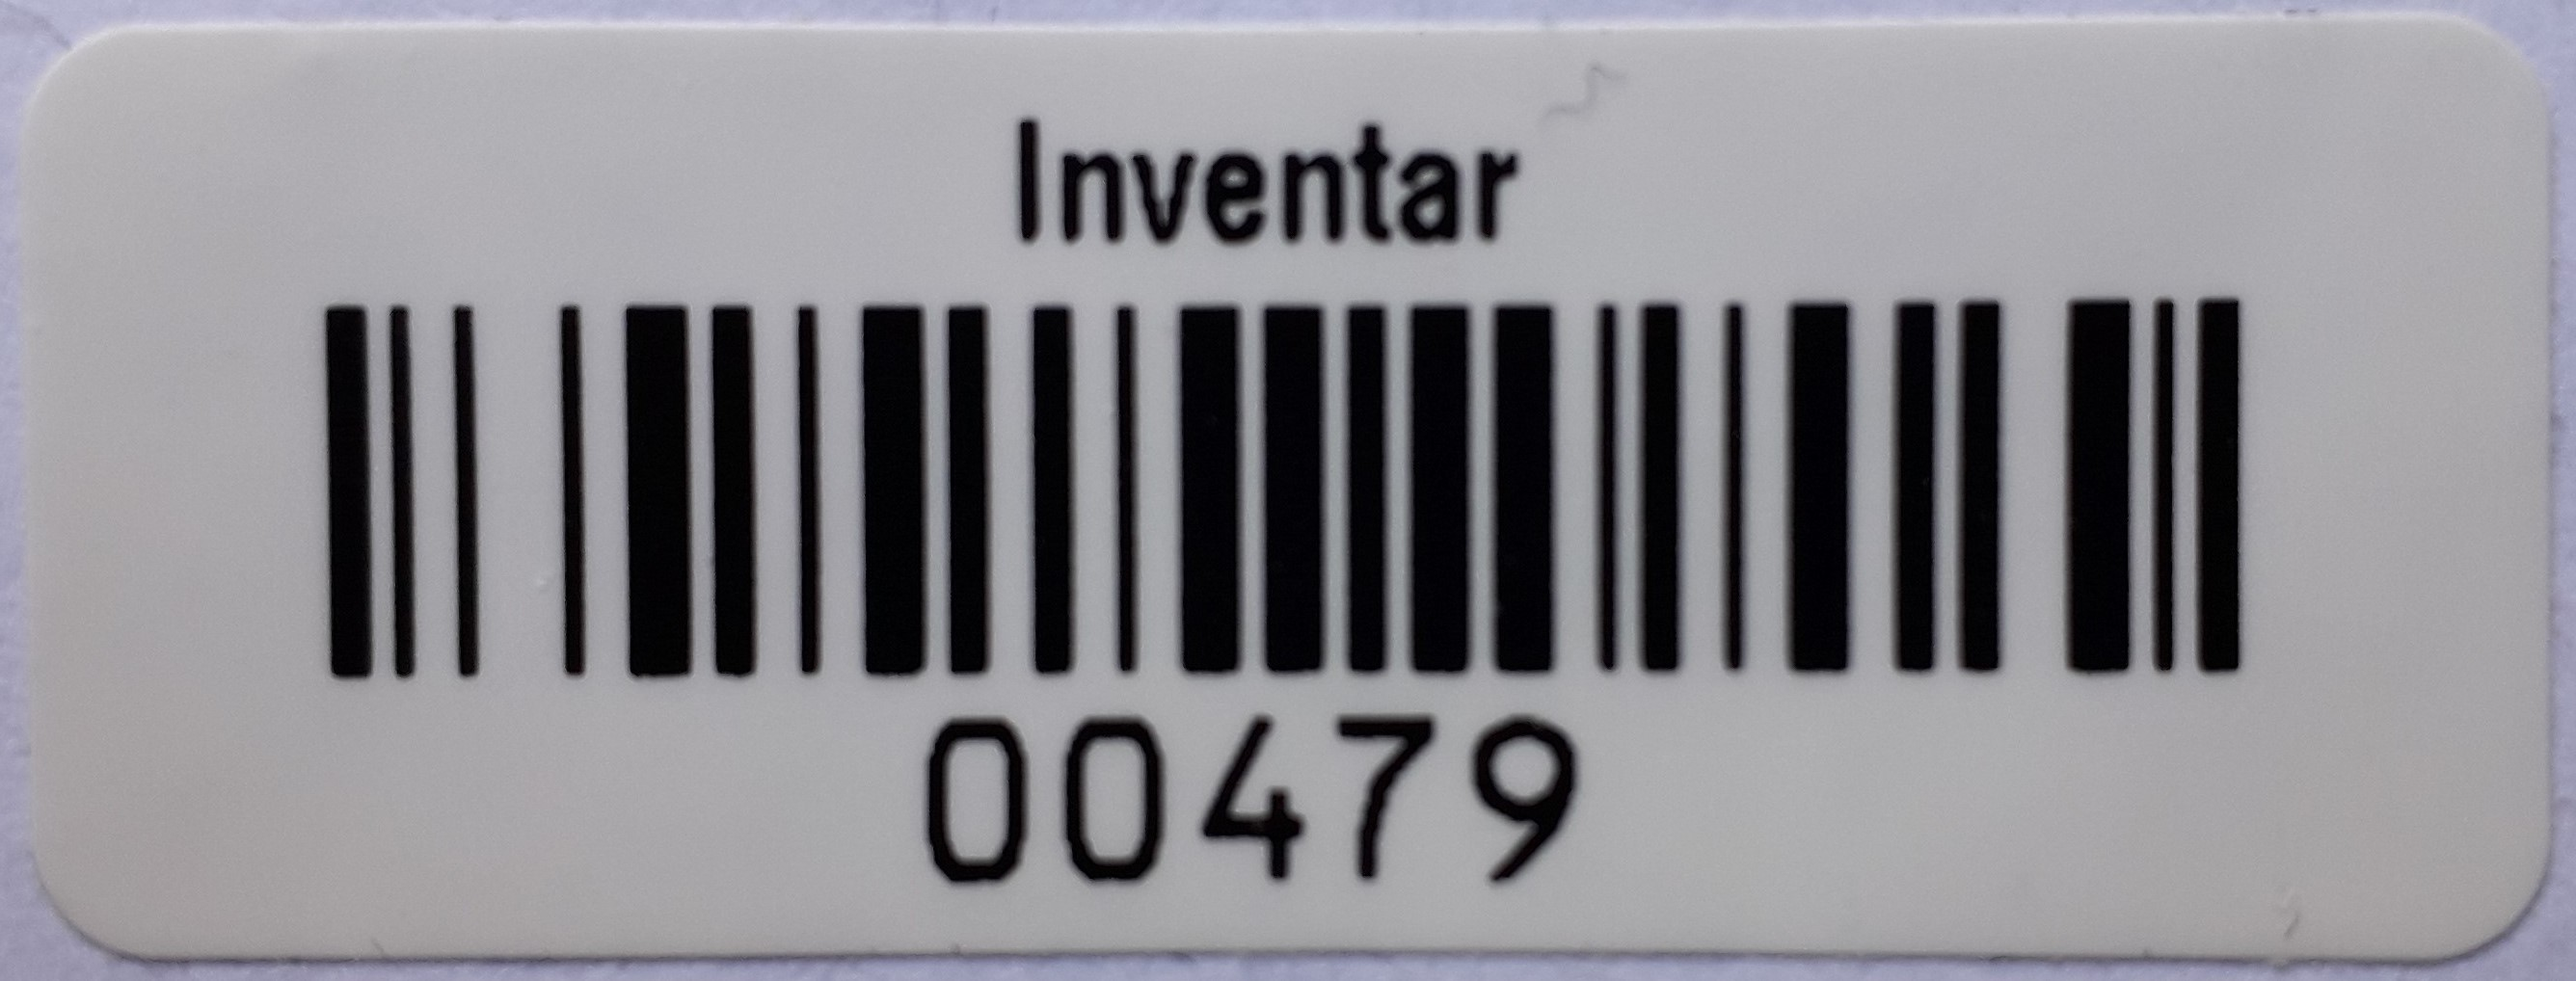
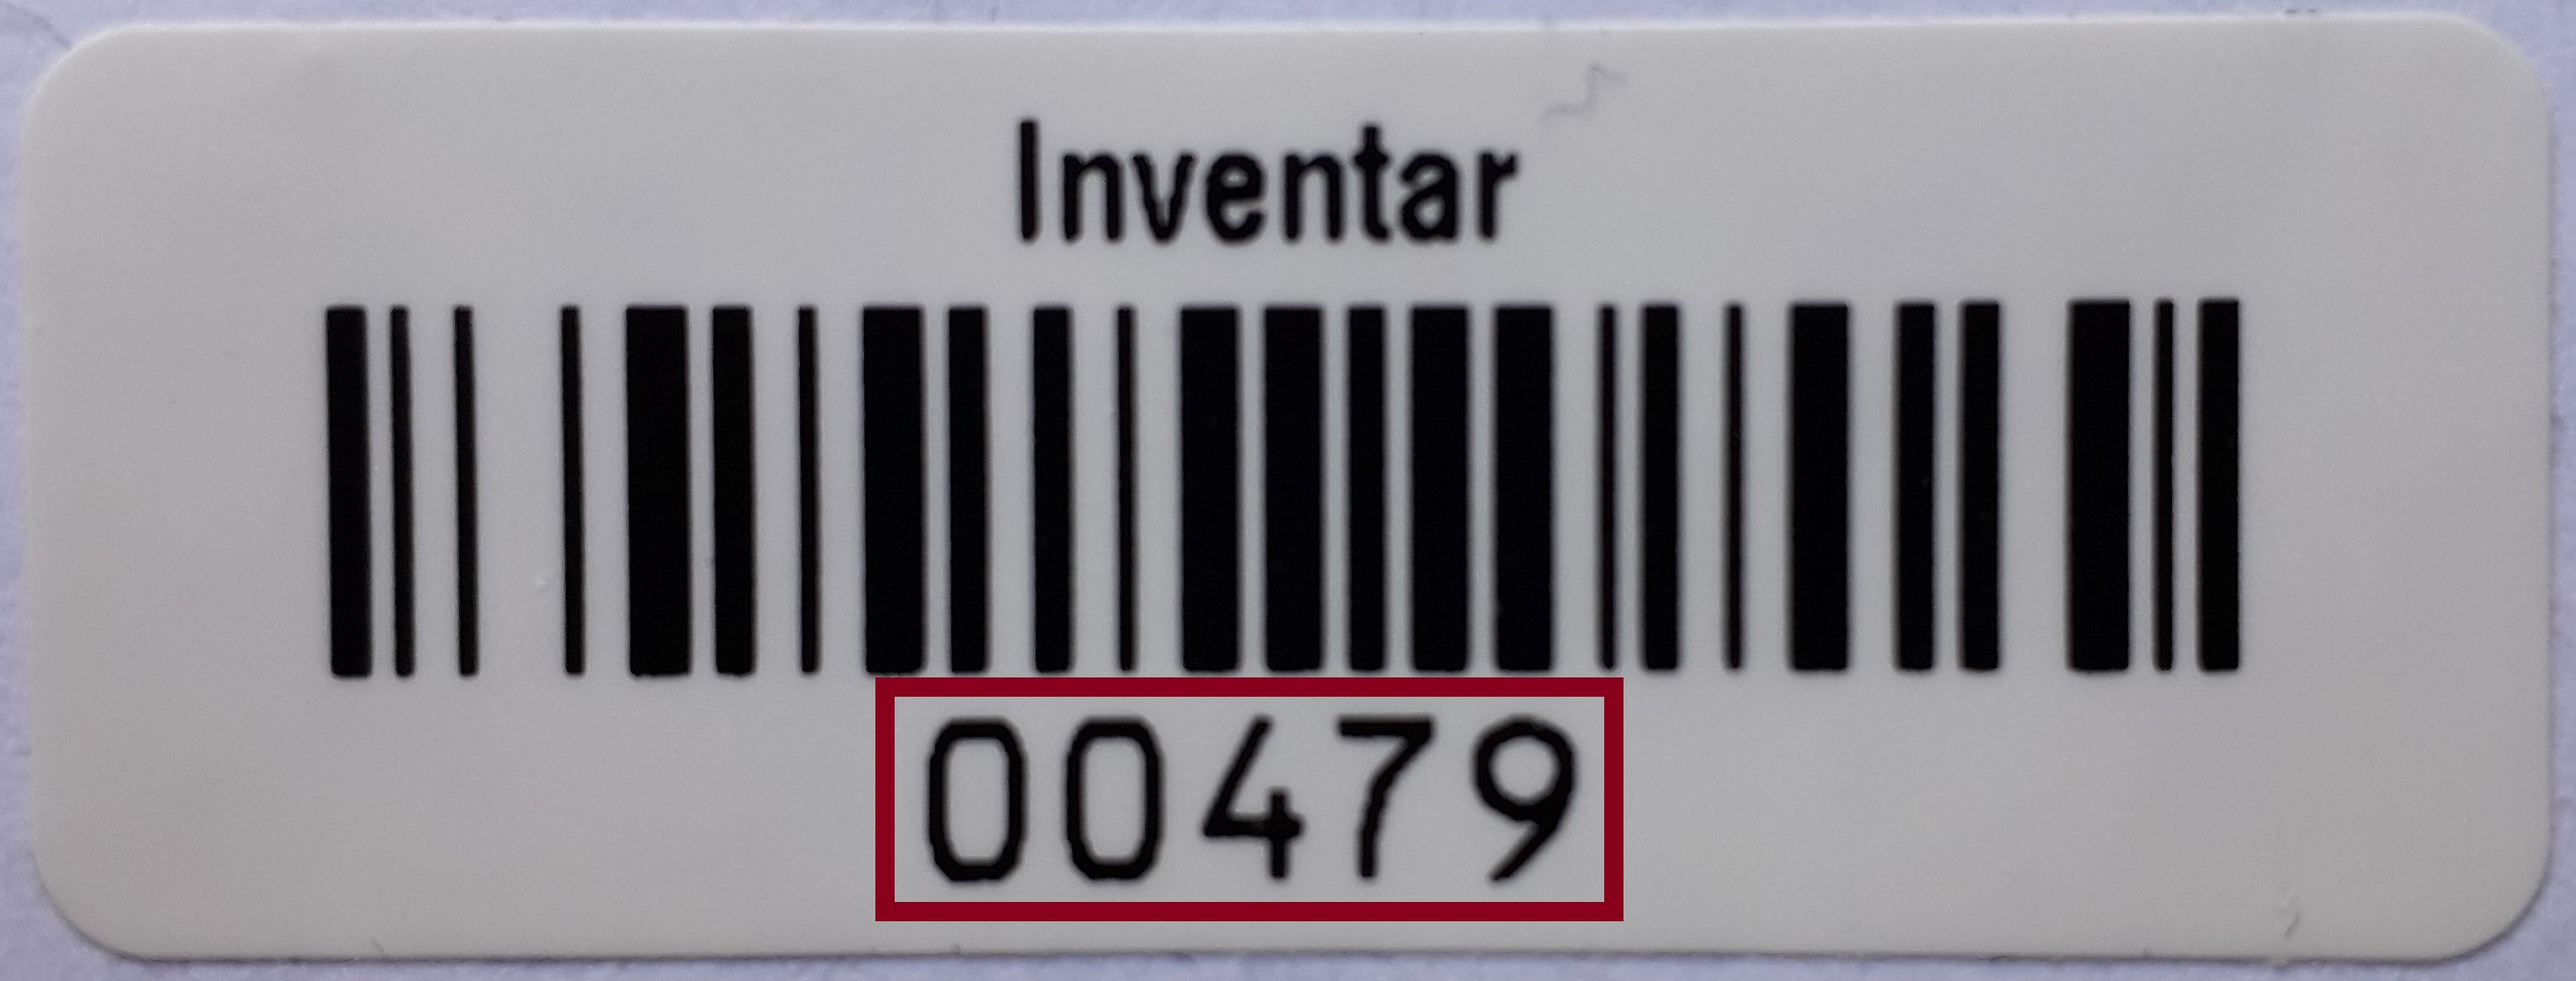
layout improvements

Changed region(s): [[0.3417, 0.6699, 0.6523, 0.944]]

diff --git a/lib/overviewScreen.dart b/lib/overviewScreen.dart
@@ -1,10 +1,11 @@
+import 'dart:convert';
 import 'package:flutter/material.dart';
+import 'package:teog_swift/previewDeviceInfo.dart';
 import 'package:teog_swift/deviceInfoScreen.dart';
 import 'package:teog_swift/main.dart';
 
 import 'networkFunctions.dart' as Comm;
 import 'preference_manager.dart' as Prefs;
-import 'hospitalDevice.dart';
 import 'doubleCardLayout.dart';
 
 class OverviewScreen extends StatelessWidget {
@@ -90,7 +91,7 @@ class _SearchFormState extends State<SearchForm> {
   @override
   Widget build(BuildContext context) {
     return Form(key: _formKey,
-      child: SizedBox(width: 250,
+      child: SizedBox(width: 300,
         child: Column(
         mainAxisSize: MainAxisSize.min,
         children: [
@@ -99,7 +100,8 @@ class _SearchFormState extends State<SearchForm> {
               .textTheme
               .headline5),
           SizedBox(height: 10),
-          Text("This is the easiest way. Please look for a barcode like this:"),
+          Text("This is the easiest way. Please look for a barcode like this and enter the marked number:"),
+          SizedBox(height: 5),
           Image(image: AssetImage('graphics/barcode.jpg')),
           TextFormField(
             controller: _deviceIDController,
@@ -142,7 +144,7 @@ class _FilterFormState extends State<FilterForm> {
 
   final _scrollController = ScrollController();
 
-  List<HospitalDevice> _filteredDevices = [];
+  List<PreviewDeviceInfo> _filteredDevices = [];
 
   String validateDeviceID(String value) {
     return null;//TODO:
@@ -181,7 +183,7 @@ class _FilterFormState extends State<FilterForm> {
   @override
   Widget build(BuildContext context) {
     return Form(key: _formKey,
-      child: SizedBox(width: 350,
+      child: SizedBox(width: 400,
         child: Column(
         mainAxisSize: MainAxisSize.min,
         children: [
@@ -228,11 +230,11 @@ class _FilterFormState extends State<FilterForm> {
                 itemCount: _filteredDevices.length,
                 itemBuilder: (BuildContext context, int index) {
                   return ListTile(
-                    leading: FlutterLogo(size: 56.0),
-                    title: Text(_filteredDevices[index].type),
-                    subtitle: Text(_filteredDevices[index].manufacturer + " " + _filteredDevices[index].model),
-                    trailing: Text(_filteredDevices[index].location),
-                    onTap: () => _openDeviceById(_filteredDevices[index].id)
+                    leading: Image.memory(base64Decode(_filteredDevices[index].imageData)),
+                    title: Text(_filteredDevices[index].device.type),
+                    subtitle: Text(_filteredDevices[index].device.manufacturer + " " + _filteredDevices[index].device.model),
+                    trailing: Text(_filteredDevices[index].device.location),
+                    onTap: () => _openDeviceById(_filteredDevices[index].device.id)
                   );
                 },
                 separatorBuilder: (BuildContext context, int index) => const Divider(),

diff --git a/lib/networkFunctions.dart b/lib/networkFunctions.dart
@@ -2,6 +2,7 @@ import 'dart:convert';
 
 import 'package:crypto/crypto.dart';
 import 'package:http/http.dart' as http;
+import 'package:teog_swift/previewDeviceInfo.dart';
 
 import 'package:teog_swift/swiftResponse.dart';
 
@@ -84,7 +85,7 @@ Future<DeviceInfo> fetchDevice(int deviceId) async {
   }
 }
 
-Future<List<HospitalDevice>> searchDevices(String type, String manufacturer, String location) async {
+Future<List<PreviewDeviceInfo>> searchDevices(String type, String manufacturer, String location) async {
   List<int> bytes = utf8.encode("password");
   String hash = sha256.convert(bytes).toString();
 
@@ -92,7 +93,7 @@ Future<List<HospitalDevice>> searchDevices(String type, String manufacturer, Str
 
   final response = await http.post(
     uri,
-    headers: <String, String>{
+    headers: <String, String> {
       'Content-Type': 'application/json; charset=UTF-8',
     },
     body: jsonEncode(<String, dynamic> {
@@ -108,12 +109,17 @@ Future<List<HospitalDevice>> searchDevices(String type, String manufacturer, Str
 
   if(response.statusCode == 200) {
     SwiftResponse swiftResponse = SwiftResponse.fromJson(jsonDecode(response.body));
-
+    
     if(swiftResponse.responseCode == 0) {
-      List<HospitalDevice> devices = [];
+      print(swiftResponse.message);
+      List<PreviewDeviceInfo> devices = [];
 
       for(var jsonDevice in swiftResponse.message) {
-        devices.add(HospitalDevice.fromJson(jsonDevice));
+        print("bla");
+        devices.add(PreviewDeviceInfo(
+          device: HospitalDevice.fromJson(jsonDevice["device"]),
+          imageData: jsonDevice["image"],
+        ));
       }
 
       return devices;

diff --git a/lib/previewDeviceInfo.dart b/lib/previewDeviceInfo.dart
@@ -1,0 +1,8 @@
+import 'hospitalDevice.dart';
+
+class PreviewDeviceInfo {
+  final HospitalDevice device;
+  final String imageData;
+
+  PreviewDeviceInfo({this.device, this.imageData});
+}
